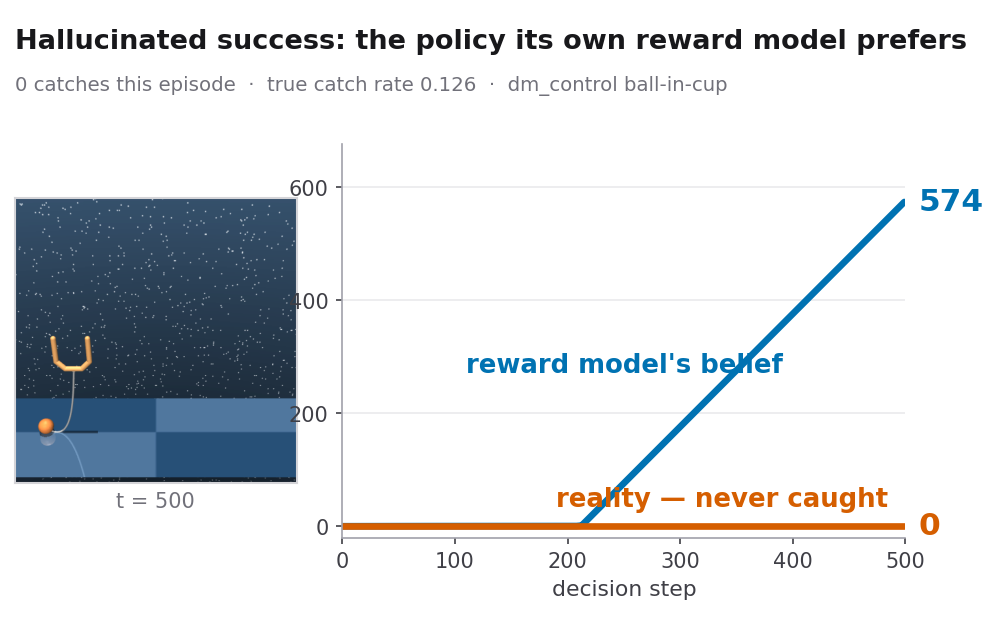
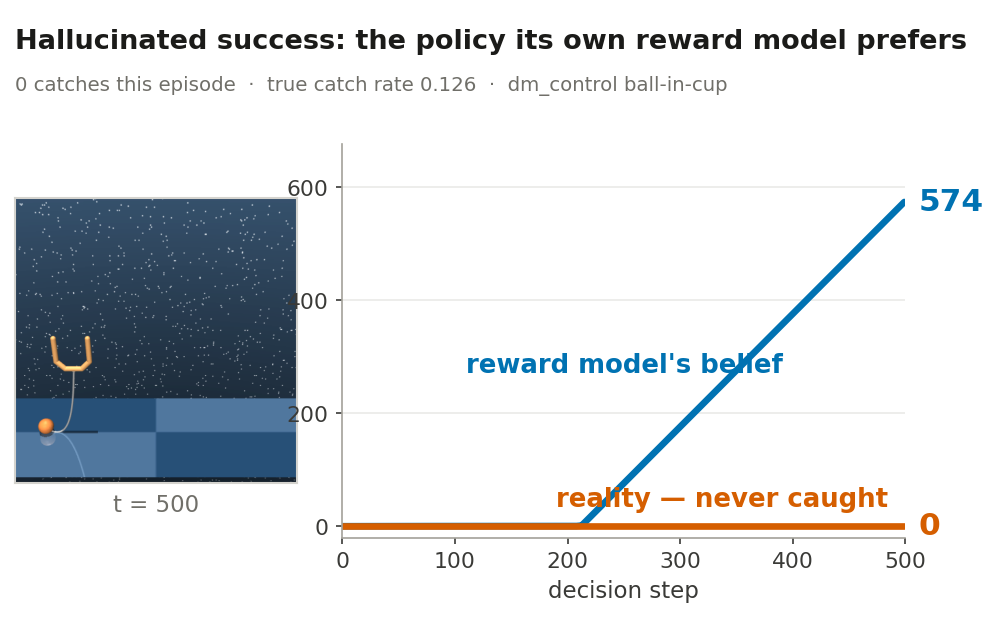
render_hero site: light and dark variants of the site figure (Okabe-Ito sky blue / amber on warm off-black for dark)

diff --git a/analysis/render_hero.py b/analysis/render_hero.py
@@ -294,13 +294,18 @@ def compose():
 
 
 def site_panel():
-    """Column-width cut for the personal site: one still + one chart per row, larger
-    type, so the figure stays legible at ~1000 px wide (the README composite does not)."""
+    """Column-width cuts for the personal site, light and dark: one still + one chart per
+    row with larger type (legible at ~1000 px), plus a mobile single-row cut and a
+    1200x630 social card (light only)."""
     import matplotlib
     matplotlib.use("Agg")
     import matplotlib.pyplot as plt
-    INK, INK2, GREY2, EDGE, GRID = "#18181b", "#3f3f46", "#71717a", "#d4d4d8", "#ececef"
     plt.rcParams.update({"font.family": "DejaVu Sans"})
+
+    LIGHT = dict(bg="white", ink="#1b1b19", ink2="#3a3a37", grey="#706f69", edge="#d4d3ce",
+                 grid="#ececea", axis="#a3a199", belief=BLUE, reality=ORANGE)
+    DARK = dict(bg="#141413", ink="#e8e6df", ink2="#c9c7bf", grey="#a3a199", edge="#3a3a37",
+                grid="#262624", axis="#6f6e68", belief="#56B4E9", reality="#E69F00")
 
     def prep(frame):
         f = frame[6:442, 24:456].astype(np.float32) * 1.15
@@ -310,81 +315,86 @@ def site_panel():
     fh, ph, ah, _, _ = _load("healthy_rl24_seed*.npz")
     n = len(pe); ymax = max(pe.max(), ph.max(), ah.max()) * 1.08
     rewarded = np.nonzero(np.diff(ah, prepend=0.0) > 0)[0]
-    rows = [("Exploiting run", "0 catches this episode  ·  true catch rate 0.126", fe[len(fe) - 1], pe, ae, 0),
-            ("Healthy run, different finetune draw", "caught and held  ·  true catch rate 0.704",
-             fh[int(rewarded[-1])], ph, ah, 1)]
-    fig = plt.figure(figsize=(11.0, 7.6), dpi=150); fig.patch.set_facecolor("white")
-    gs = fig.add_gridspec(2, 3, width_ratios=[1, 0.10, 2.05], wspace=0.04, hspace=0.62,
-                          left=0.008, right=0.975, top=0.90, bottom=0.085)
-    for name, chip, still, pred, act, r in rows:
-        ax = fig.add_subplot(gs[r, 0]); ax.imshow(prep(still)); ax.set_xticks([]); ax.set_yticks([])
-        for sp in ax.spines.values(): sp.set_color(EDGE); sp.set_linewidth(1.0)
-        ax.set_xlabel("t = 500" if r == 0 else f"t = {int(rewarded[-1])}", fontsize=11, color=GREY2, labelpad=5)
-        ax = fig.add_subplot(gs[r, 2])
-        ax.set_xlim(0, n); ax.set_ylim(-20, ymax); ax.set_yticks(np.arange(0, ymax, 200))
-        ax.grid(axis="y", color=GRID, lw=0.9); ax.set_axisbelow(True)
-        for sp in ("top", "right"): ax.spines[sp].set_visible(False)
-        for sp in ("left", "bottom"): ax.spines[sp].set_color("#a1a1aa")
-        ax.tick_params(colors=INK2, labelsize=10.5, length=3)
-        ax.set_ylabel("cumulative reward", fontsize=11, color=INK2, labelpad=5)
-        if r == 1: ax.set_xlabel("decision step", fontsize=11, color=INK2)
-        else: ax.tick_params(labelbottom=False)
-        ax.plot(np.arange(n), pred, color=BLUE, lw=3.0, solid_capstyle="round")
-        ax.plot(np.arange(n), act, color=ORANGE, lw=3.0, solid_capstyle="round")
-        if r == 0:
-            t0 = int(np.argmax(pred > 1.0))
-            ax.axvline(t0, color=GREY2, lw=0.9, ls=(0, (2, 3)))
-            ax.annotate(f"belief starts accruing, t = {t0}", xy=(t0, ymax * 0.92), xytext=(-7, 0),
-                        textcoords="offset points", ha="right", va="center", fontsize=10, color=GREY2)
-            ax.annotate("reward model's belief", xy=(0.27, 0.40), xycoords="axes fraction",
-                        color=BLUE, fontsize=12.5, fontweight="bold")
-            ax.annotate("reality — never caught", xy=(0.97, 0.07), xycoords="axes fraction",
-                        ha="right", color=ORANGE, fontsize=12.5, fontweight="bold")
-            for y, txt, c in ((pred[-1], f"{pred[-1]:.0f}", BLUE), (0, "0", ORANGE)):
-                ax.annotate(txt, xy=(n - 1, y), xytext=(7, 0), textcoords="offset points",
-                            va="center", color=c, fontsize=14, fontweight="bold")
-        else:
-            ax.annotate("belief ≈ reality", xy=(0.30, 0.68), xycoords="axes fraction",
-                        color=INK, fontsize=12.5, fontweight="bold")
-            ax.annotate(f"{act[-1]:.0f}", xy=(n - 1, act[-1]), xytext=(7, 0), textcoords="offset points",
-                        va="center", color=ORANGE, fontsize=14, fontweight="bold")
-        y_hdr = 0.935 if r == 0 else 0.455
-        fig.text(0.008, y_hdr, name, fontsize=15, fontweight="bold", color=INK, va="bottom")
-        fig.text(0.975, y_hdr, chip, fontsize=11.5, color=GREY2, va="bottom", ha="right")
-    fig.savefig(OUT / "hero_site.png", bbox_inches="tight", facecolor="white", dpi=150)
-    plt.close(fig); print("hero_site.png saved")
 
-    # ---- single-row variants: mobile (exploiting row, big type) and 1200x630 social card ----
-    for out_name, figsize, chip_fs, title_fs in (("hero_site_mobile.png", (6.67, 4.27), 9.5, 13),
-                                                  ("og_image.png", (8.0, 4.2), 10.5, 14)):
-        fig = plt.figure(figsize=figsize, dpi=150); fig.patch.set_facecolor("white")
+    def still(ax, img, label, P):
+        ax.imshow(img); ax.set_xticks([]); ax.set_yticks([])
+        for sp in ax.spines.values(): sp.set_color(P["edge"]); sp.set_linewidth(1.0)
+        ax.set_xlabel(label, fontsize=11, color=P["grey"], labelpad=5)
+
+    def chart(ax, P, bottom, ymax_):
+        ax.set_facecolor(P["bg"])
+        ax.set_xlim(0, n); ax.set_ylim(-20, ymax_); ax.set_yticks(np.arange(0, ymax_, 200))
+        ax.grid(axis="y", color=P["grid"], lw=0.9); ax.set_axisbelow(True)
+        for sp in ("top", "right"): sp_ = ax.spines[sp]; sp_.set_visible(False)
+        for sp in ("left", "bottom"): ax.spines[sp].set_color(P["axis"])
+        ax.tick_params(colors=P["ink2"], labelsize=10.5, length=3)
+        ax.set_ylabel("cumulative reward", fontsize=11, color=P["ink2"], labelpad=5)
+        if bottom: ax.set_xlabel("decision step", fontsize=11, color=P["ink2"])
+        else: ax.tick_params(labelbottom=False)
+
+    def two_row(P, out_name):
+        rows = [("Exploiting run", "0 catches this episode  ·  true catch rate 0.126", fe[len(fe) - 1], pe, ae, 0),
+                ("Healthy run, different finetune draw", "caught and held  ·  true catch rate 0.704",
+                 fh[int(rewarded[-1])], ph, ah, 1)]
+        fig = plt.figure(figsize=(11.0, 7.6), dpi=150); fig.patch.set_facecolor(P["bg"])
+        gs = fig.add_gridspec(2, 3, width_ratios=[1, 0.10, 2.05], wspace=0.04, hspace=0.62,
+                              left=0.008, right=0.975, top=0.90, bottom=0.085)
+        for name, chip, st, pred, act, r in rows:
+            still(fig.add_subplot(gs[r, 0]), prep(st), "t = 500" if r == 0 else f"t = {int(rewarded[-1])}", P)
+            ax = fig.add_subplot(gs[r, 2]); chart(ax, P, bottom=(r == 1), ymax_=ymax)
+            ax.plot(np.arange(n), pred, color=P["belief"], lw=3.0, solid_capstyle="round")
+            ax.plot(np.arange(n), act, color=P["reality"], lw=3.0, solid_capstyle="round")
+            if r == 0:
+                t0 = int(np.argmax(pred > 1.0))
+                ax.axvline(t0, color=P["grey"], lw=0.9, ls=(0, (2, 3)))
+                ax.annotate(f"belief starts accruing, t = {t0}", xy=(t0, ymax * 0.92), xytext=(-7, 0),
+                            textcoords="offset points", ha="right", va="center", fontsize=10, color=P["grey"])
+                ax.annotate("reward model's belief", xy=(0.27, 0.40), xycoords="axes fraction",
+                            color=P["belief"], fontsize=12.5, fontweight="bold")
+                ax.annotate("reality — never caught", xy=(0.97, 0.07), xycoords="axes fraction",
+                            ha="right", color=P["reality"], fontsize=12.5, fontweight="bold")
+                for y, txt, c in ((pred[-1], f"{pred[-1]:.0f}", P["belief"]), (0, "0", P["reality"])):
+                    ax.annotate(txt, xy=(n - 1, y), xytext=(7, 0), textcoords="offset points",
+                                va="center", color=c, fontsize=14, fontweight="bold")
+            else:
+                ax.annotate("belief ≈ reality", xy=(0.30, 0.68), xycoords="axes fraction",
+                            color=P["ink"], fontsize=12.5, fontweight="bold")
+                ax.annotate(f"{act[-1]:.0f}", xy=(n - 1, act[-1]), xytext=(7, 0), textcoords="offset points",
+                            va="center", color=P["reality"], fontsize=14, fontweight="bold")
+            y_hdr = 0.935 if r == 0 else 0.455
+            fig.text(0.008, y_hdr, name, fontsize=15, fontweight="bold", color=P["ink"], va="bottom")
+            fig.text(0.975, y_hdr, chip, fontsize=11.5, color=P["grey"], va="bottom", ha="right")
+        fig.savefig(OUT / out_name, bbox_inches="tight", facecolor=P["bg"], dpi=150)
+        plt.close(fig); print(f"{out_name} saved")
+
+    def one_row(P, out_name, figsize, chip_fs, title_fs):
+        fig = plt.figure(figsize=figsize, dpi=150); fig.patch.set_facecolor(P["bg"])
         gs = fig.add_gridspec(1, 3, width_ratios=[1, 0.08, 2.0], wspace=0.04,
                               left=0.015, right=0.905, top=0.775, bottom=0.16)
-        ax = fig.add_subplot(gs[0, 0]); ax.imshow(prep(fe[len(fe) - 1])); ax.set_xticks([]); ax.set_yticks([])
-        for sp in ax.spines.values(): sp.set_color(EDGE); sp.set_linewidth(1.0)
-        ax.set_xlabel("t = 500", fontsize=10, color=GREY2, labelpad=4)
-        ax = fig.add_subplot(gs[0, 2])
-        ax.set_xlim(0, n); ax.set_ylim(-20, pe.max() * 1.18); ax.set_yticks(np.arange(0, pe.max() * 1.18, 200))
-        ax.grid(axis="y", color=GRID, lw=0.9); ax.set_axisbelow(True)
-        for sp in ("top", "right"): ax.spines[sp].set_visible(False)
-        for sp in ("left", "bottom"): ax.spines[sp].set_color("#a1a1aa")
-        ax.tick_params(colors=INK2, labelsize=10, length=3)
-        ax.set_xlabel("decision step", fontsize=10.5, color=INK2)
-        ax.plot(np.arange(n), pe, color=BLUE, lw=3.2, solid_capstyle="round")
-        ax.plot(np.arange(n), ae, color=ORANGE, lw=3.2, solid_capstyle="round")
+        still(fig.add_subplot(gs[0, 0]), prep(fe[len(fe) - 1]), "t = 500", P)
+        ax = fig.add_subplot(gs[0, 2]); chart(ax, P, bottom=True, ymax_=pe.max() * 1.18)
+        ax.set_ylabel("")
+        ax.plot(np.arange(n), pe, color=P["belief"], lw=3.2, solid_capstyle="round")
+        ax.plot(np.arange(n), ae, color=P["reality"], lw=3.2, solid_capstyle="round")
         ax.annotate("reward model's belief", xy=(0.22, 0.42), xycoords="axes fraction",
-                    color=BLUE, fontsize=12.5, fontweight="bold")
+                    color=P["belief"], fontsize=12.5, fontweight="bold")
         ax.annotate("reality — never caught", xy=(0.97, 0.08), xycoords="axes fraction",
-                    ha="right", color=ORANGE, fontsize=12.5, fontweight="bold")
-        for y, txt, c in ((pe[-1], f"{pe[-1]:.0f}", BLUE), (0, "0", ORANGE)):
+                    ha="right", color=P["reality"], fontsize=12.5, fontweight="bold")
+        for y, txt, c in ((pe[-1], f"{pe[-1]:.0f}", P["belief"]), (0, "0", P["reality"])):
             ax.annotate(txt, xy=(n - 1, y), xytext=(7, 0), textcoords="offset points",
                         va="center", color=c, fontsize=15, fontweight="bold")
         fig.text(0.015, 0.935, "Hallucinated success: the policy its own reward model prefers",
-                 fontsize=title_fs, fontweight="bold", color=INK, va="center")
+                 fontsize=title_fs, fontweight="bold", color=P["ink"], va="center")
         fig.text(0.015, 0.865, "0 catches this episode  ·  true catch rate 0.126  ·  dm_control ball-in-cup",
-                 fontsize=chip_fs, color=GREY2, va="center")
-        fig.savefig(OUT / out_name, facecolor="white", dpi=150)   # exact pixel size, no tight-crop
+                 fontsize=chip_fs, color=P["grey"], va="center")
+        fig.savefig(OUT / out_name, facecolor=P["bg"], dpi=150)
         plt.close(fig); print(f"{out_name} saved")
+
+    two_row(LIGHT, "hero_site.png")
+    two_row(DARK, "hero_site_dark.png")
+    one_row(LIGHT, "hero_site_mobile.png", (6.67, 4.27), 9.5, 13)
+    one_row(DARK, "hero_site_mobile_dark.png", (6.67, 4.27), 9.5, 13)
+    one_row(LIGHT, "og_image.png", (8.0, 4.2), 10.5, 14)
 
 
 if __name__ == "__main__":
